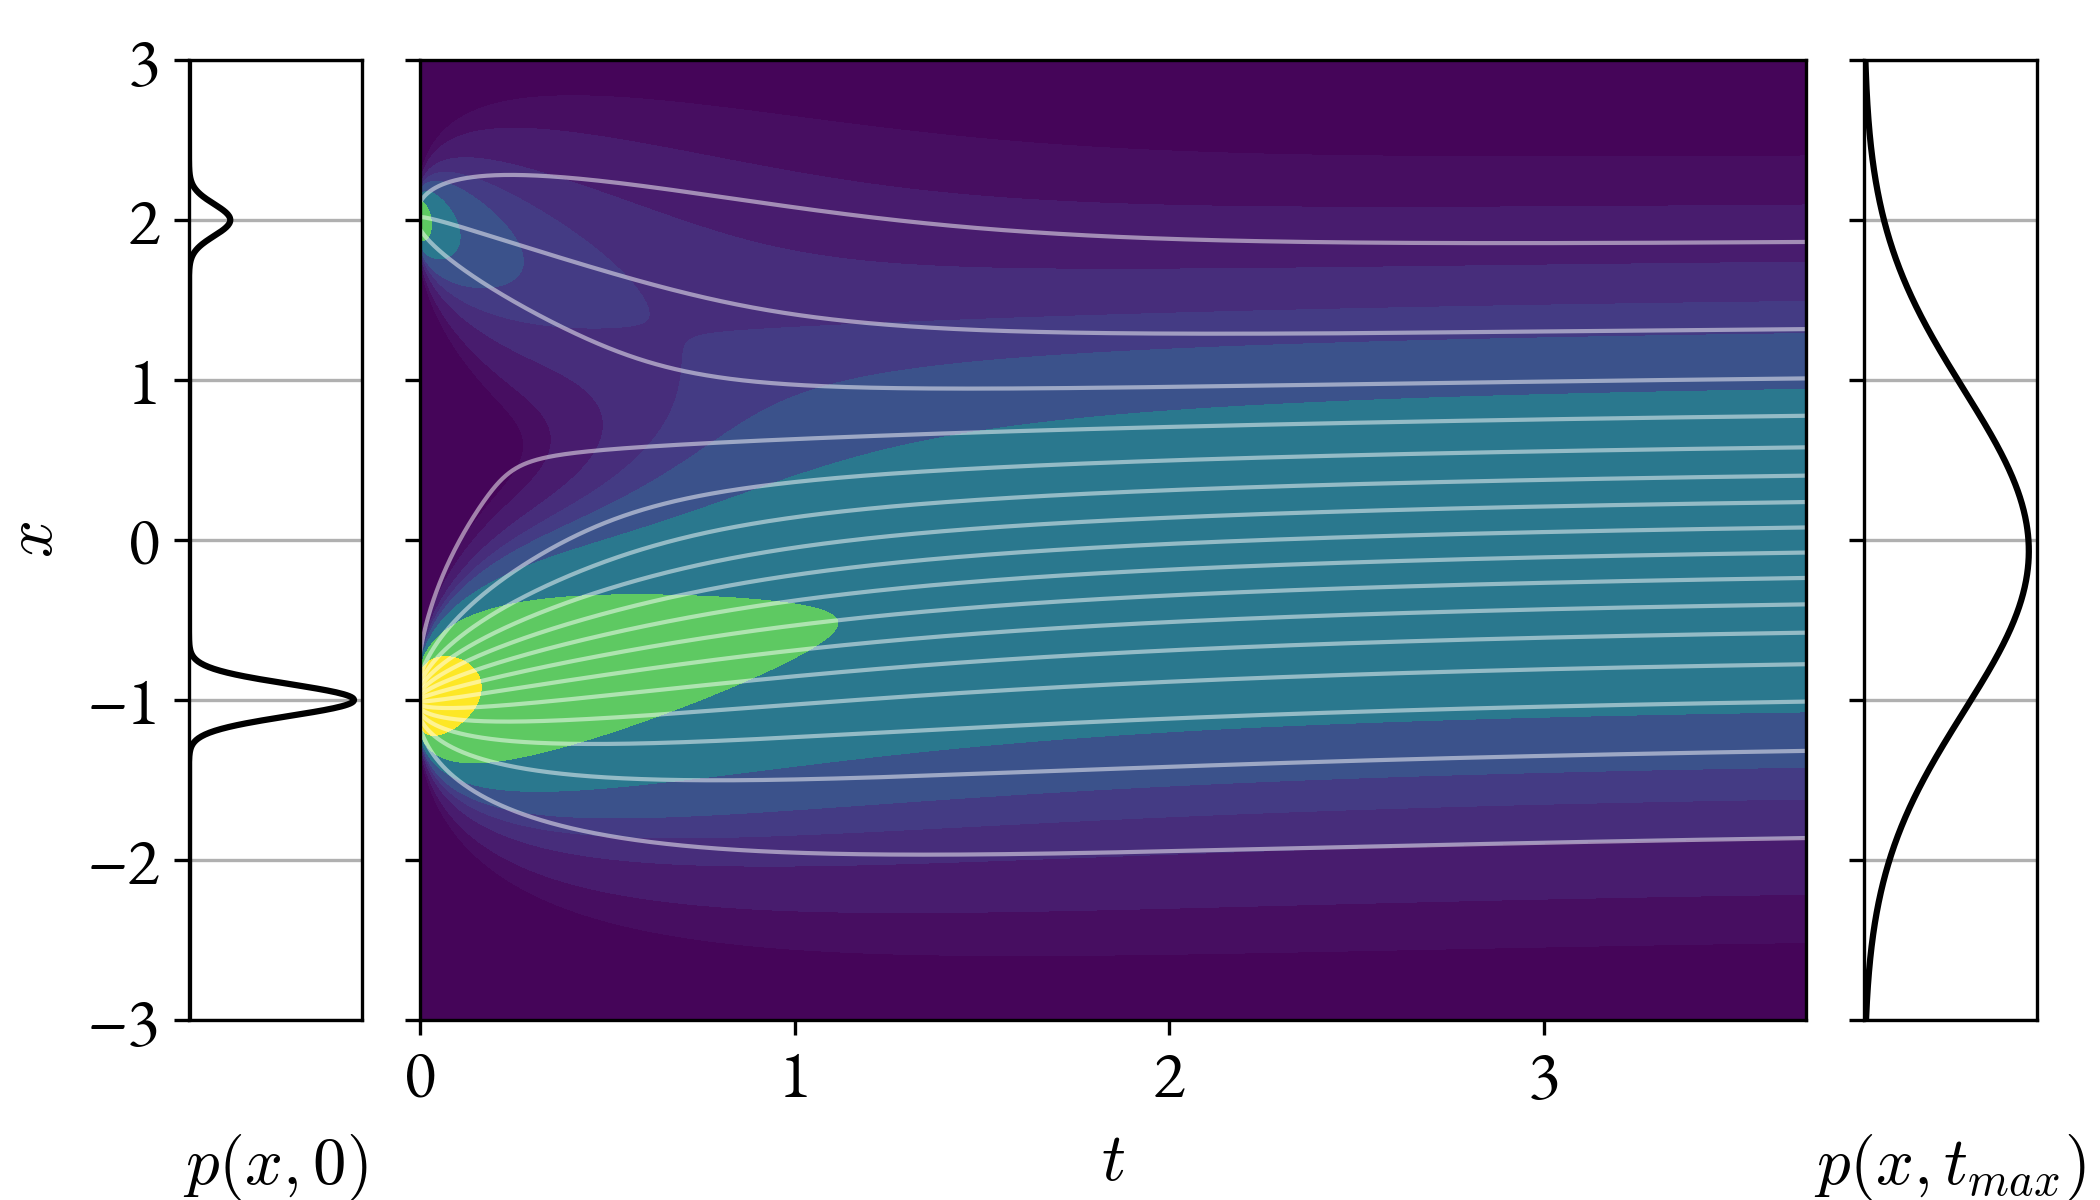
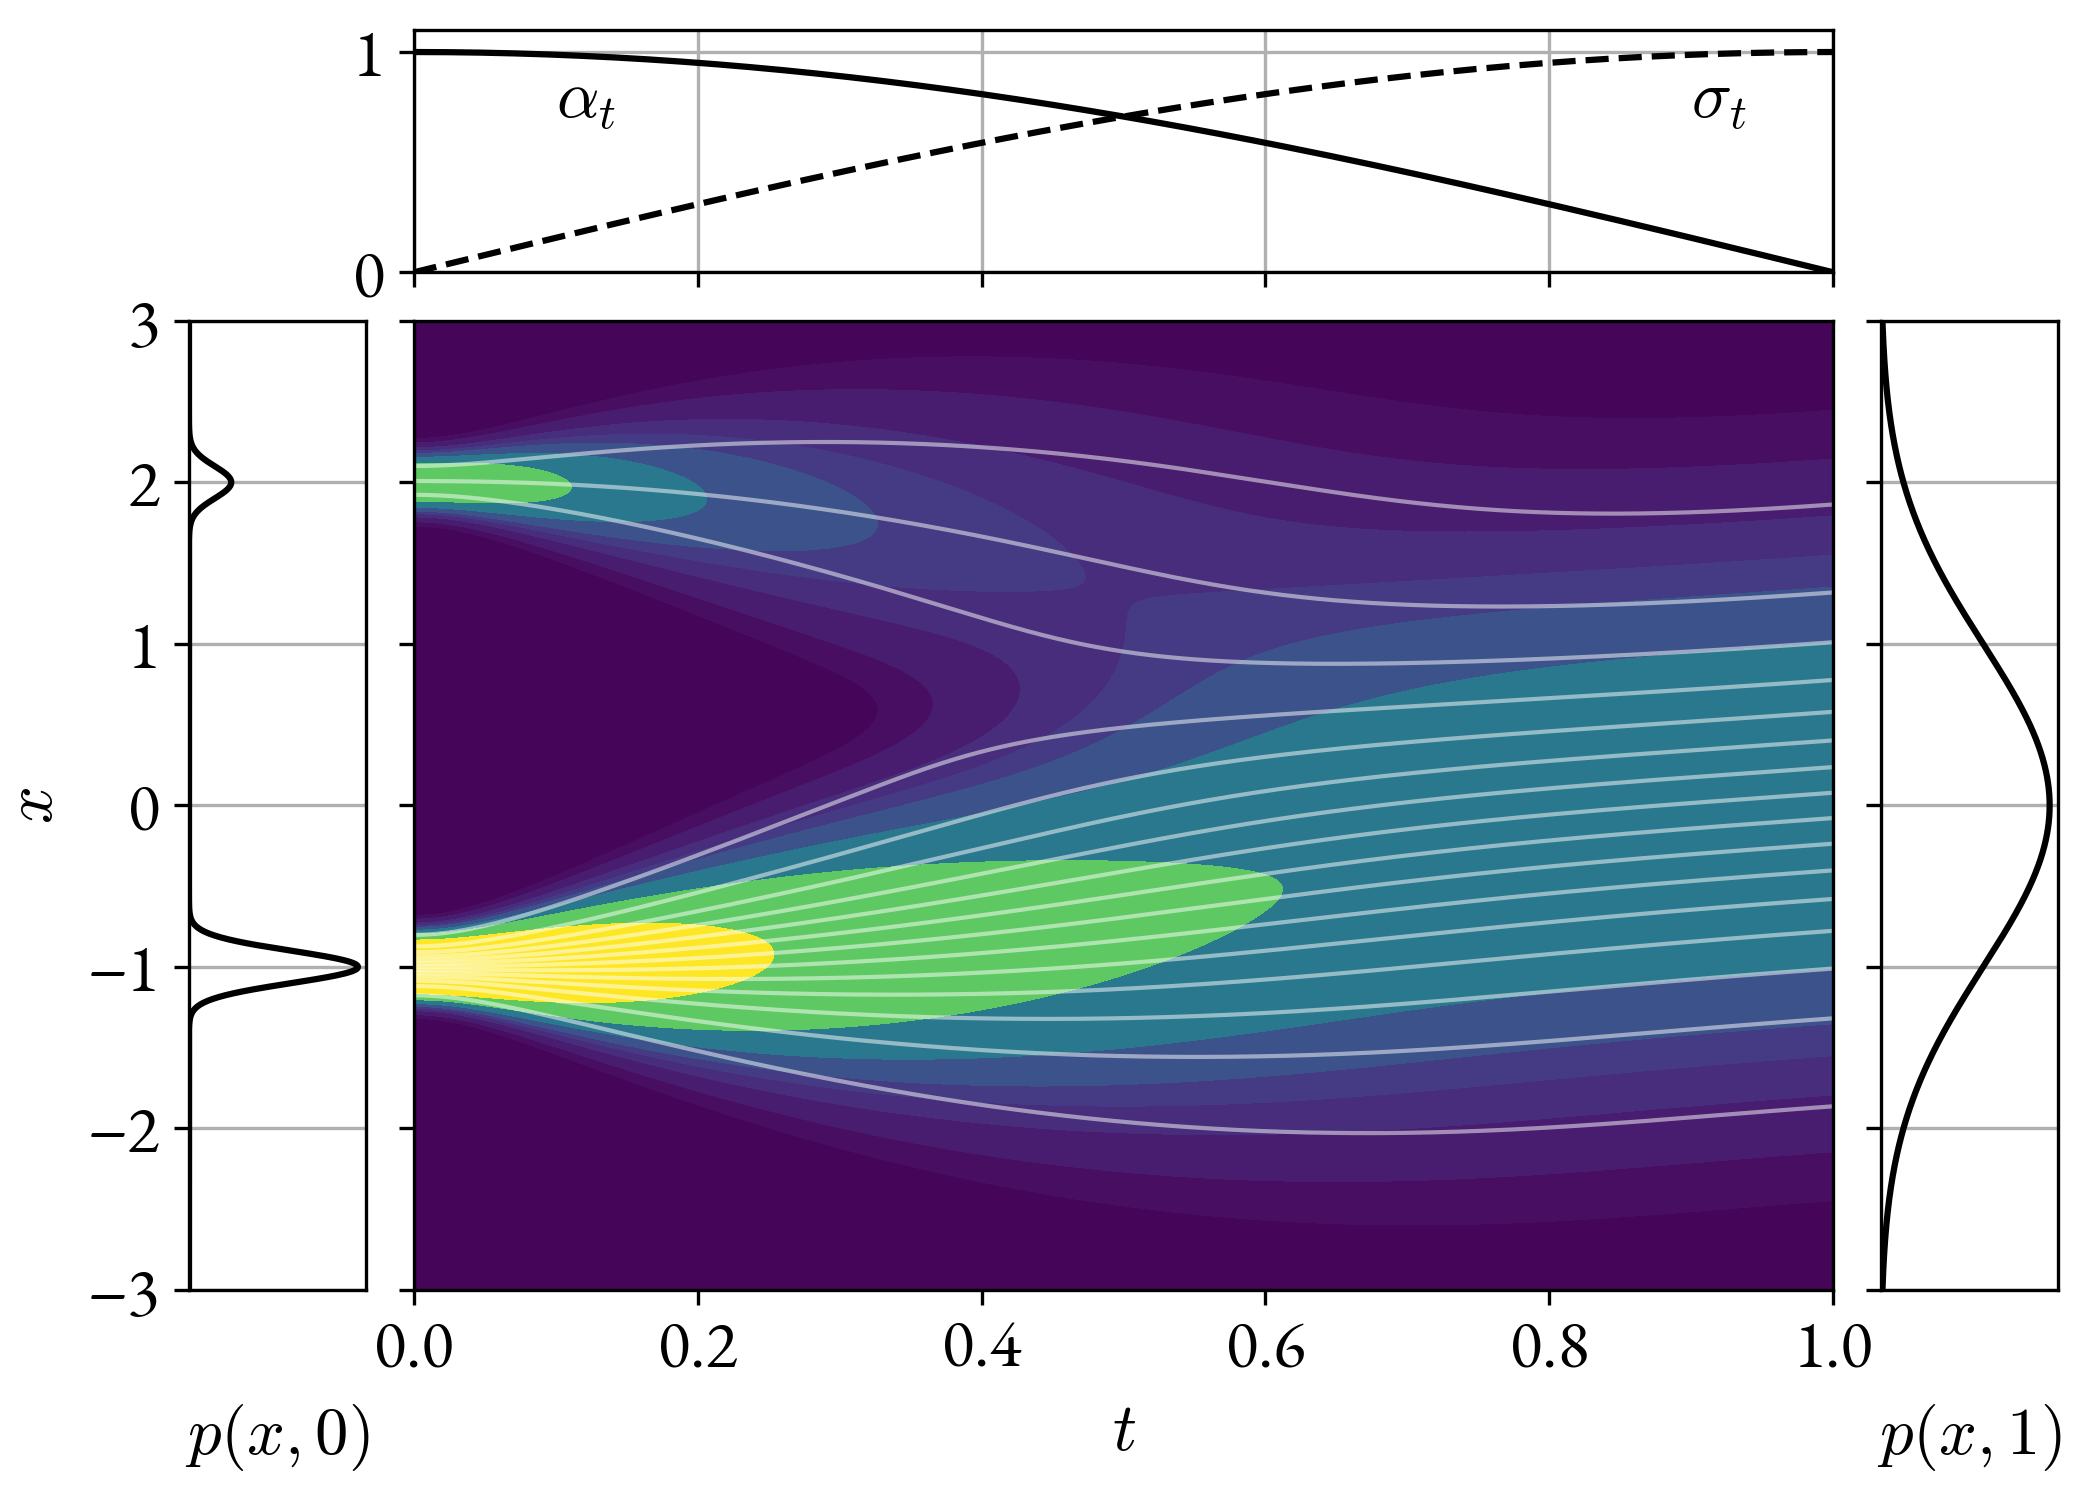
Improve plots

diff --git a/pages/data_from_noise/plot.py b/pages/data_from_noise/plot.py
@@ -92,14 +92,19 @@ def plot_flow(compute_log_p, x_range, n_mesh_t=1024, n_mesh_x=1024):
     log_p, _ = compute_log_p(t_mesh, x_mesh)
     log_p0, _ = compute_log_p(0, x_mesh)
     log_p1, _ = compute_log_p(1, x_mesh)
-    figure, axes = plt.subplots(
-        1, 3, figsize=(7.0, 4.0), sharey=True,
-        width_ratios=[0.1, 0.8, 0.1], dpi=300,
-        gridspec_kw={
-            'wspace': 0.10, 'left': 0.09, 
-            'right': 0.97, 'top': 0.95, 'bottom': 0.16,
-        },
+    figure = plt.figure(figsize=(7, 5), dpi=300)
+    grid_spec = matplotlib.gridspec.GridSpec(
+            nrows=2, ncols=3, wspace=0.08, hspace=0.08,
+            left=0.09, right=0.98, top=0.98, bottom=0.14,
+            width_ratios=[0.1, 0.8, 0.1],
+            height_ratios=[0.2, 0.8],
     )
+    axes = [None] * 4
+    axes[0] = figure.add_subplot(grid_spec[1, 0])
+    axes[1] = figure.add_subplot(grid_spec[1, 1], sharey=axes[0])
+    axes[2] = figure.add_subplot(grid_spec[1, 2], sharey=axes[0])
+    axes[3] = figure.add_subplot(grid_spec[0, 1], sharex=axes[1])
+
     axes[0].plot(np.exp(log_p0), x_mesh, c='black')
     axes[2].plot(np.exp(log_p1), x_mesh, c='black')
     axes[0].set_xlim(0, None)
@@ -107,6 +112,9 @@ def plot_flow(compute_log_p, x_range, n_mesh_t=1024, n_mesh_x=1024):
     axes[0].set_xlabel("$p(x, 0)$")
     axes[2].set_xlabel("$p(x, 1)$")
     axes[0].set_xticks([])
+    axes[1].yaxis.set_tick_params(labelleft=False)
+    axes[2].yaxis.set_tick_params(labelleft=False)
+    axes[3].xaxis.set_tick_params(labelleft=False)
     axes[2].set_xticks([])
     axes[0].set_ylabel("$x$")
     axes[0].grid()
@@ -121,6 +129,15 @@ def plot_flow(compute_log_p, x_range, n_mesh_t=1024, n_mesh_x=1024):
     axes[1].set_xlabel("$t$")
     figure.align_xlabels(axes)
     return figure, axes
+
+def plot_schedule(axes, alpha, sigma):
+    t_list = np.linspace(0, 1, 128)
+    axes.plot(t_list, alpha(t_list), c='k')
+    axes.plot(t_list, sigma(t_list), c='k', linestyle='--')
+    axes.annotate(r'$\alpha_t$', (0.1, alpha(0.1)), (0, -15), textcoords='offset points')
+    axes.annotate(r'$\sigma_t$', (0.9, sigma(0.9)), (0, -15), textcoords='offset points')
+    axes.grid()
+    axes.set_ylim(0, 1.10)
 
 def plot_diffusion():
     pi1 = 0.8; x1 = -1.0; sigma1 = 0.1
@@ -142,6 +159,7 @@ def plot_diffusion():
             x0=x2, sigma0=sigma2, alpha=alpha, sigma=sigma),
     )
     figure, axes = plot_flow(compute_log_p, x_range=(-3, 3))
+    plot_schedule(axes[3], alpha, sigma)
     rng = np.random.default_rng(0)
     n_sample = 16
     x_0 = np.where(
@@ -156,10 +174,10 @@ def plot_diffusion():
     figure.savefig('diffusion.png')
 
     figure, axes = plot_flow(compute_log_p, x_range=(-3, 3))
+    plot_schedule(axes[3], alpha, sigma)
     t_list, x_list = integrate_flow(
         x_0=scipy.stats.norm.ppf(bin_centers(0, 1.0, 16)),
         lambda_=lambda_, gsq=gsq, compute_log_p=compute_log_p, nt=2048)
-
     axes[1].plot(t_list, x_list, c='white', linewidth=1, alpha=0.5)
     figure.savefig('probability_flow.png')
 
